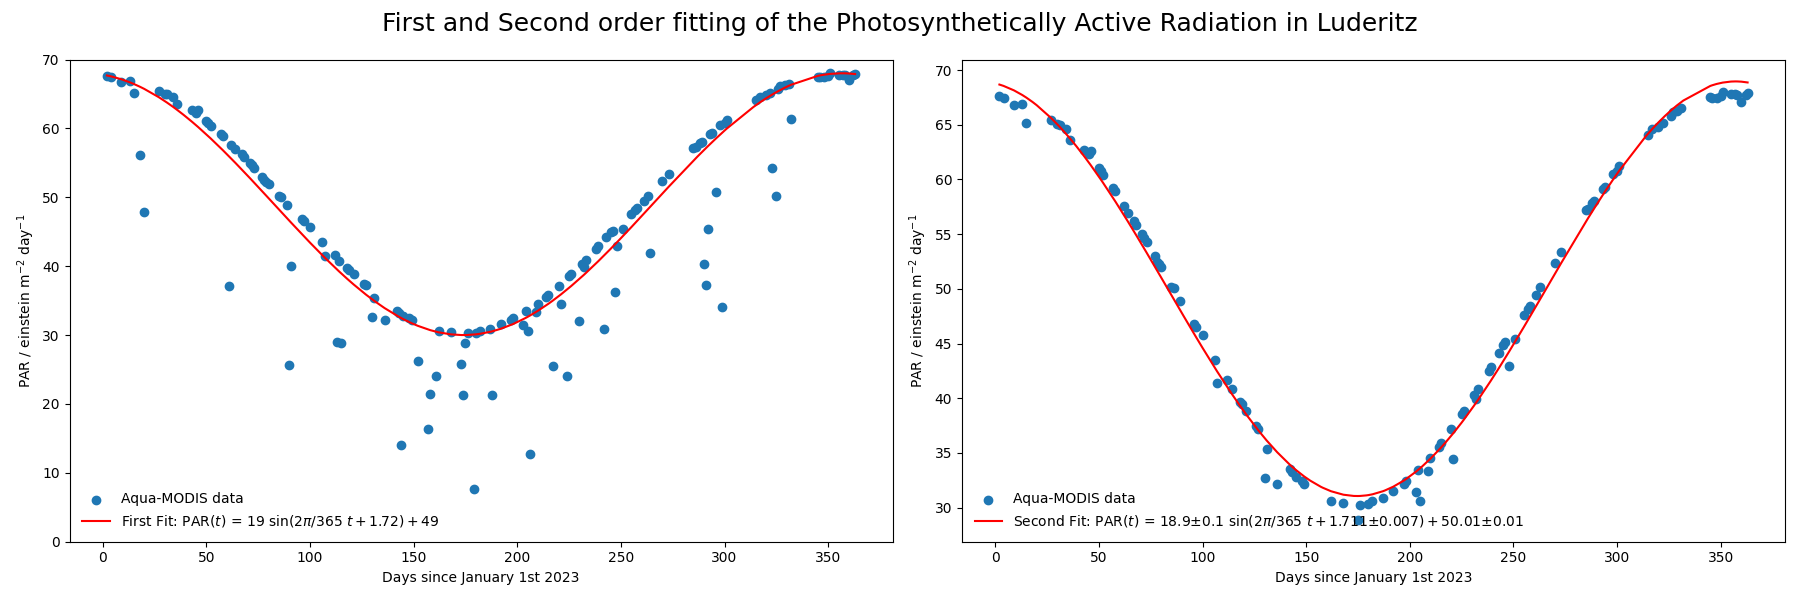
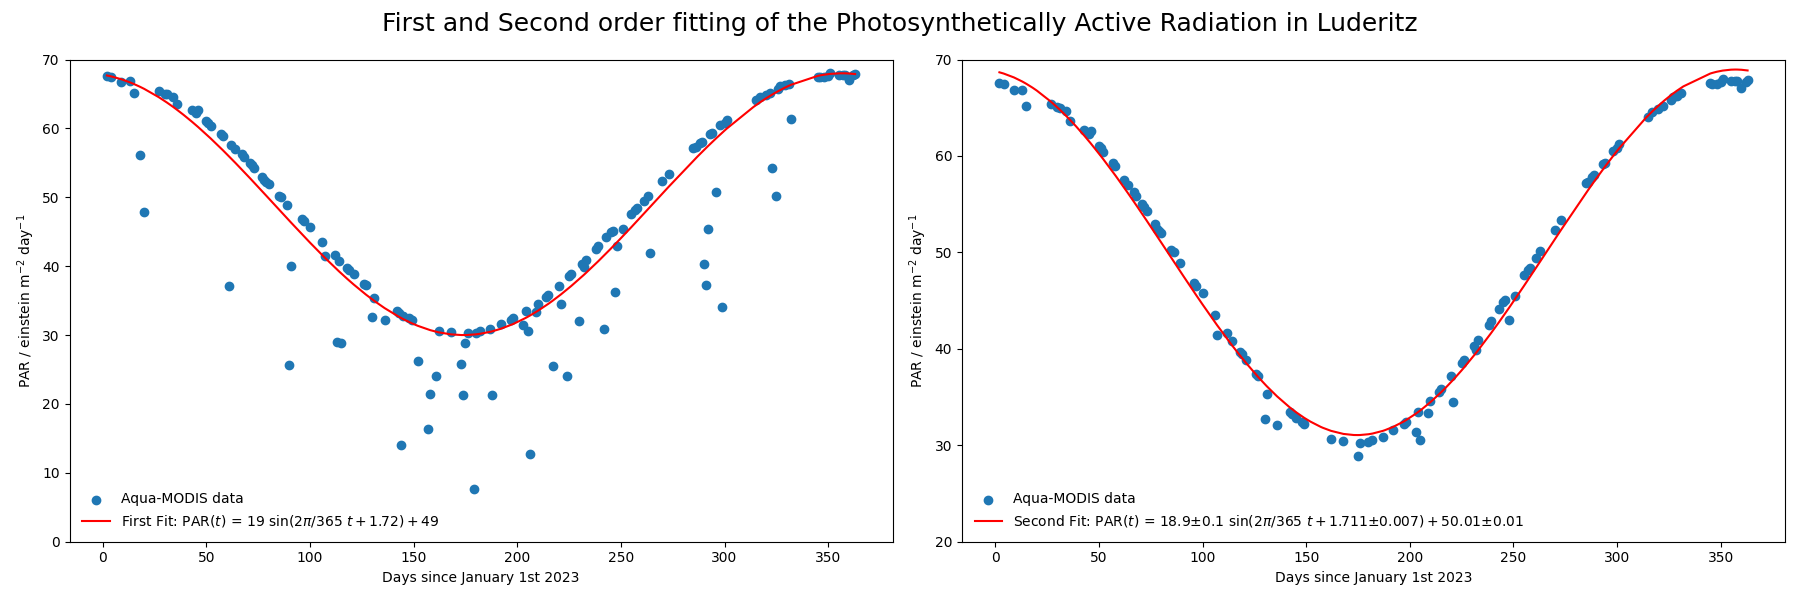
removed unnecessary prints

diff --git a/PAR/DataAnalysis.py b/PAR/DataAnalysis.py
@@ -55,8 +55,6 @@ guess = [16, 1.7, 47]
 
 def sinfunc(t, A, p, c):  return A * np.sin(0.0172*t + p) + c
 popt, pcov = scipy.optimize.curve_fit(sinfunc, new_time_array, new_data_array, p0=guess)
-print(popt)
-print(np.sqrt(np.diag(pcov)))
 A, p, c = popt
 
 #REPLOTS WITH NEW DATA
@@ -66,6 +64,7 @@ ax2.plot(time_array, sinfunc(np.asarray(time_array), A, p, c), color="red", labe
 ax2.legend(loc="lower left", frameon=False)
 ax2.set_xlabel("Days since January 1st 2023")
 ax2.set_ylabel(r"PAR / einstein m$^{-2}$ day$^{-1}$")
+ax2.set_ylim(20, 70)
 
 #PLOTTING STUFF
 fig.suptitle("First and Second order fitting of the Photosynthetically Active Radiation in Luderitz", fontsize=18)
